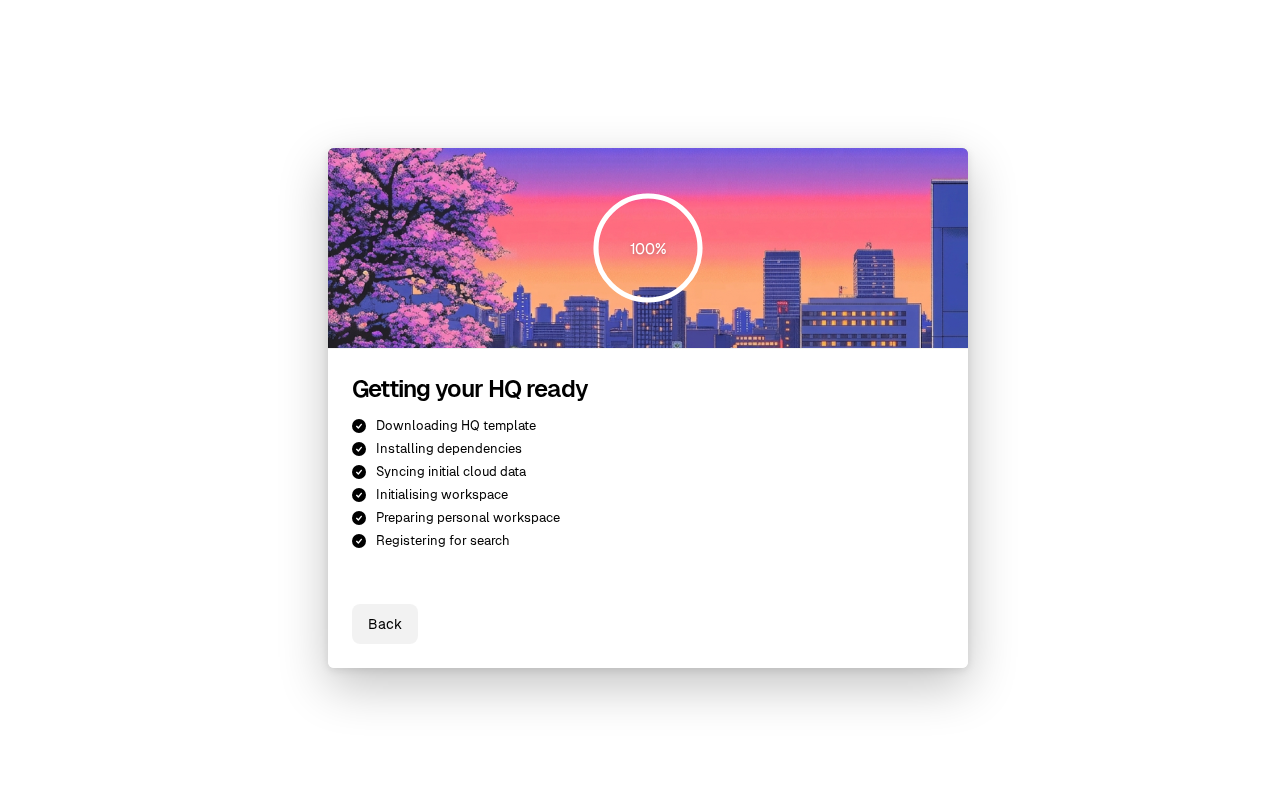
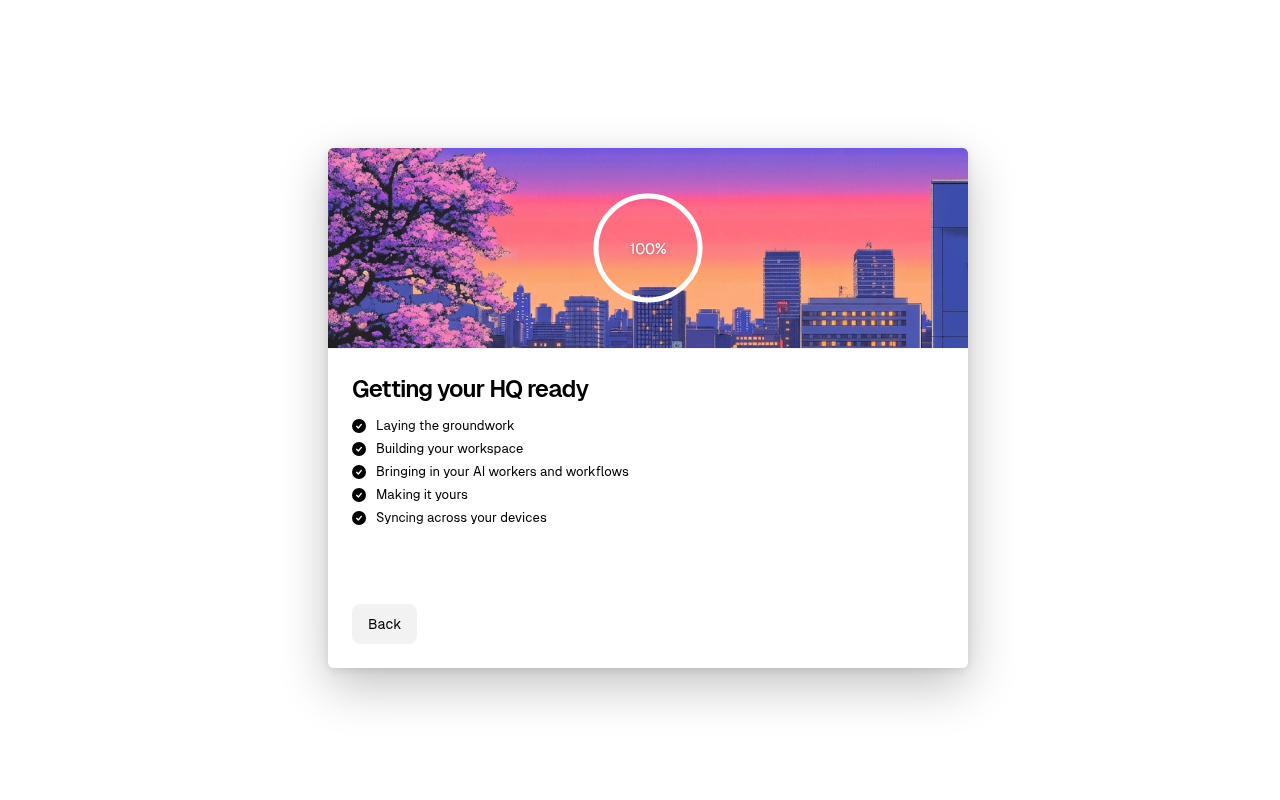
fix(onboarding): restore friendly setup checklist

Changed region(s): [[0.2812, 0.5312, 0.5, 0.6875], [0.2812, 0.4688, 0.4688, 0.5]]

diff --git a/apps/sync/src/components/onboarding/OnboardingWizard.svelte b/apps/sync/src/components/onboarding/OnboardingWizard.svelte
@@ -37,6 +37,7 @@
     allSettled,
     buildInitialStages,
     buildStagesFromManifest,
+    friendlySetupBands,
     createSetupRunId,
     normalizeFailedStageIds,
     reuseInFlightOperation,
@@ -309,6 +310,7 @@
   const ringOffset = $derived(
     RING_CIRCUMFERENCE * (1 - Math.max(0, Math.min(100, overallPercent)) / 100),
   );
+  const setupBands = $derived(friendlySetupBands(overallPercent));
   const readyCaution = $derived(launchEscape ?? COMPLETE_SETUP);
   const userFacingInstallPath = $derived(
     installPath ? toUserFacingPath(installPath) : null,
@@ -1975,21 +1977,24 @@
         >
           <h2 class="h" id="onboarding-title-setup">Getting your HQ ready</h2>
           <div class="list" aria-label="Setup checklist">
-            {#each stages as stage}
-              <div class:muted={stage.status === 'pending'} class="li">
-                {#if stage.status === 'running'}
+            {#each setupBands as band}
+              <div class:muted={band.status === 'pending'} class="li">
+                {#if band.status === 'active'}
                   <span class="st spin" aria-hidden="true"></span>
-                {:else if stage.status === 'ok' || stage.status === 'failed'}
+                {:else if band.status === 'done'}
                   <span class="st dotmark" aria-hidden="true">{@render CheckTiny()}</span>
                 {:else}
                   <span class="st dotpend" aria-hidden="true"></span>
                 {/if}
-                <span class="lt">{stage.label}</span>
+                <span class="lt">{band.label}</span>
               </div>
             {/each}
           </div>
-          <!-- Recovery retries transient failures automatically. Persistent failures
-               are recorded for the setup skill without changing the checklist state. -->
+          <!-- The setup screen intentionally shows ONLY the friendly checklist (matching
+               the design). Recovery runs automatically in the setup engine; a stage that
+               still fails is recorded silently for the setup skill, not surfaced on a
+               needs-attention note. No percentages, stage counts, staging toggle, or
+               manual controls. -->
           <div class="btns">
             <button class="btn btn-secondary" type="button" onclick={() => goBackTo(DIRECTORY_STEP_INDEX)}>Back</button>
           </div>

diff --git a/apps/sync/src/components/onboarding/OnboardingWizard.test.ts b/apps/sync/src/components/onboarding/OnboardingWizard.test.ts
@@ -275,6 +275,55 @@ describe('onboarding launch handoff', () => {
     expect(primaryButton().textContent).toBe('Install Claude Code');
   });
 
+  it('restores friendly checklist labels instead of internal setup stage names', async () => {
+    tauri.invoke.mockImplementation(async (command: string) => {
+      switch (command) {
+        case 'resolve_hq_path':
+          return '/Users/test/hq';
+        case 'detect_ai_tools':
+          return NO_AI_TOOLS;
+        case 'record_install_complete':
+          return new Promise<never>(() => {});
+        default:
+          return undefined;
+      }
+    });
+    component = mount(OnboardingWizard, {
+      target: host,
+      props: { initialStep: 2 },
+    });
+
+    const friendlyLabels = [
+      'Laying the groundwork',
+      'Building your workspace',
+      'Bringing in your AI workers and workflows',
+      'Making it yours',
+      'Syncing across your devices',
+    ];
+    const rawStageLabels = [
+      'Downloading HQ template',
+      'Installing dependencies',
+      'Syncing initial cloud data',
+      'Initialising workspace',
+      'Preparing personal workspace',
+      'Registering for search',
+    ];
+
+    await flushUntil(() => {
+      const checklist = host.querySelector('[data-testid="onboarding-setup"]');
+      return friendlyLabels.every((label) => checklist?.textContent?.includes(label));
+    });
+
+    const checklist = host.querySelector('[data-testid="onboarding-setup"]');
+    expect(checklist).not.toBeNull();
+    for (const label of friendlyLabels) {
+      expect(checklist?.textContent).toContain(label);
+    }
+    for (const label of rawStageLabels) {
+      expect(checklist?.textContent).not.toContain(label);
+    }
+  });
+
   it('renders the same seamless completion screen after a failed required stage as after a clean run', async () => {
     const claudeDesktopOnly = {
       ...NO_AI_TOOLS,

diff --git a/apps/sync/src/lib/onboarding-stub-stages.test.ts b/apps/sync/src/lib/onboarding-stub-stages.test.ts
@@ -72,7 +72,9 @@ describe('honest onboarding stage reporting', () => {
     expect(wizard).not.toContain('Retry failed steps');
     expect(wizard).not.toContain('Existing HQ setup import was not run');
     expect(wizard).not.toContain('needsAttention');
-    expect(wizard).toContain("{:else if stage.status === 'ok' || stage.status === 'failed'}");
+    expect(wizard).toContain('friendlySetupBands');
+    expect(wizard).toContain('{#each setupBands as band}');
+    expect(wizard).toContain("{:else if band.status === 'done'}");
     expect(wizard).toContain(
       'markSetupStepCompleted();\n      await journalInstallComplete();\n      setupCompletionMetrics',
     );
